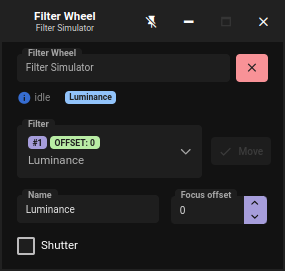
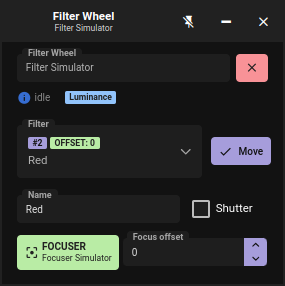
[desktop]: Save focus offset and sent it when filter change

diff --git a/desktop/src/app/filterwheel/filterwheel.component.ts b/desktop/src/app/filterwheel/filterwheel.component.ts
@@ -7,6 +7,7 @@ import { BrowserWindowService } from '../../shared/services/browser-window.servi
 import { ElectronService } from '../../shared/services/electron.service'
 import { PreferenceService } from '../../shared/services/preference.service'
 import { CameraStartCapture, EMPTY_CAMERA_START_CAPTURE } from '../../shared/types/camera.types'
+import { Focuser } from '../../shared/types/focuser.types'
 import { EMPTY_WHEEL, FilterSlot, FilterWheel, WheelDialogInput, WheelDialogMode, WheelPreference } from '../../shared/types/wheel.types'
 import { AppComponent } from '../app.component'
 
@@ -19,6 +20,12 @@ export class FilterWheelComponent implements AfterContentInit, OnDestroy {
 
     readonly wheel = structuredClone(EMPTY_WHEEL)
     readonly request = structuredClone(EMPTY_CAMERA_START_CAPTURE)
+
+    focusers: Focuser[] = []
+    focuser?: Focuser
+    focusOffset = 0
+    focusOffsetMin = 0
+    focusOffsetMax = 0
 
     moving = false
     position = 0
@@ -68,7 +75,7 @@ export class FilterWheelComponent implements AfterContentInit, OnDestroy {
                     this.update()
 
                     if (wasConnected !== event.device.connected) {
-                        electron.autoResizeWindow()
+                        electron.autoResizeWindow(1000)
                     }
                 })
             }
@@ -78,6 +85,29 @@ export class FilterWheelComponent implements AfterContentInit, OnDestroy {
             if (event.device.id === this.wheel.id) {
                 ngZone.run(() => {
                     Object.assign(this.wheel, EMPTY_WHEEL)
+                })
+            }
+        })
+
+        electron.on('FOCUSER.UPDATED', event => {
+            if (event.device.id === this.focuser?.id) {
+                ngZone.run(() => {
+                    Object.assign(this.focuser!, event.device)
+                })
+            }
+        })
+
+        electron.on('FOCUSER.DETACHED', event => {
+            if (event.device.id === this.focuser?.id) {
+                ngZone.run(() => {
+                    this.focuser = undefined
+                    this.updateFocusOffset()
+
+                    const index = this.focusers.findIndex(e => e.id === event.device.id)
+
+                    if (index >= 0) {
+                        this.focusers.splice(index, 1)
+                    }
                 })
             }
         })
@@ -103,6 +133,13 @@ export class FilterWheelComponent implements AfterContentInit, OnDestroy {
                 this.wheelChanged(decodedData)
             }
         })
+
+        this.focusers = await this.api.focusers()
+
+        if (this.focusers.length === 1) {
+            this.focuser = this.focusers[0]
+            this.focuserChanged()
+        }
     }
 
     @HostListener('window:unload')
@@ -117,6 +154,7 @@ export class FilterWheelComponent implements AfterContentInit, OnDestroy {
 
             this.loadPreference()
             this.update()
+            this.electron.autoResizeWindow()
         }
 
         if (this.app) {
@@ -132,9 +170,23 @@ export class FilterWheelComponent implements AfterContentInit, OnDestroy {
         }
     }
 
+    filterChanged() {
+        this.updateFocusOffset()
+    }
+
     async moveTo(filter: FilterSlot) {
-        await this.api.wheelMoveTo(this.wheel, filter.position)
-        this.moving = true
+        try {
+            this.moving = true
+
+            await this.api.wheelMoveTo(this.wheel, filter.position)
+
+            if (this.focuser && this.focuser?.connected && this.focusOffset !== 0) {
+                if (this.focusOffset < 0) this.api.focuserMoveIn(this.focuser, this.focusOffset)
+                else this.api.focuserMoveOut(this.focuser, this.focusOffset)
+            }
+        } catch {
+            this.moving = false
+        }
     }
 
     shutterToggled(filter: FilterSlot, event: CheckboxChangeEvent) {
@@ -148,8 +200,26 @@ export class FilterWheelComponent implements AfterContentInit, OnDestroy {
         }
     }
 
-    focusOffsetChanged(filter: FilterSlot) {
-        this.filterChangedPublisher.next(structuredClone(filter))
+    focuserChanged() {
+        this.focusOffsetMax = this.focuser?.maxPosition ?? 0
+        this.focusOffsetMin = -this.focusOffsetMax
+        this.updateFocusOffset()
+    }
+
+    focusOffsetForFilter(filter: FilterSlot) {
+        return this.focuser ? this.preference.focusOffset(this.wheel, this.focuser, filter.position).get() : 0
+    }
+
+    private updateFocusOffset() {
+        if (this.filter) {
+            this.focusOffset = this.focuser ? this.preference.focusOffset(this.wheel, this.focuser, this.filter.position).get() : 0
+        }
+    }
+
+    focusOffsetChanged() {
+        if (this.filter && this.focuser) {
+            this.preference.focusOffset(this.wheel, this.focuser, this.filter.position).set(this.focusOffset)
+        }
     }
 
     private update() {
@@ -187,6 +257,8 @@ export class FilterWheelComponent implements AfterContentInit, OnDestroy {
 
         this.filters = filters
         this.filter = filters[this.position - 1] ?? filters[0]
+
+        this.updateFocusOffset()
     }
 
     private loadPreference() {

diff --git a/desktop/src/app/filterwheel/filterwheel.component.html b/desktop/src/app/filterwheel/filterwheel.component.html
@@ -20,12 +20,12 @@
         <div class="col-9">
             <span class="p-float-label">
                 <p-dropdown [disabled]="!wheel.connected || moving" [options]="filters" [(ngModel)]="filter" styleClass="border-0"
-                            emptyMessage="No filter found" [autoDisplayFirst]="false" appendTo="body">
+                            emptyMessage="No filter found" [autoDisplayFirst]="false" (ngModelChange)="filterChanged()" appendTo="body">
                     <ng-template let-item pTemplate="selectedItem">
                         <div class="flex flex-column justify-content-center gap-1">
                             <span class="flex align-items-center text-xs gap-1" style="min-height: 15px">
                                 <p-tag *ngIf="filter" value="#{{ filter.position }}" />
-                                <p-tag *ngIf="filter" value="OFFSET: {{ filter.offset }}" severity="success" />
+                                <p-tag *ngIf="filter" value="OFFSET: {{ focusOffsetForFilter(filter) }}" severity="success" />
                                 <i *ngIf="filter?.dark" class="mdi mdi-camera-iris"></i>
                             </span>
                             <span>{{ filter?.name }}</span>
@@ -35,7 +35,7 @@
                         <div class="flex flex-column justify-content-center gap-1">
                             <span class="flex align-items-center text-xs gap-1" style="min-height: 15px">
                                 <p-tag value="#{{ item.position }}" />
-                                <p-tag value="OFFSET: {{ item.offset }}" severity="success" />
+                                <p-tag value="OFFSET: {{ focusOffsetForFilter(item) }}" severity="success" />
                                 <i *ngIf="item.dark" class="mdi mdi-camera-iris"></i>
                             </span>
                             <span>{{ item.name }}</span>
@@ -51,23 +51,27 @@
         </div>
     </div>
     <div class="grid mt-2" *ngIf="filter && canEdit">
-        <div class="col-7">
+        <div class="col-8">
             <span class="p-float-label">
                 <input pInputText [disabled]="!wheel.connected || moving" [(ngModel)]="filter.name"
                        (ngModelChange)="filterNameChanged(filter)" [maxLength]="16" class="border-0 w-full p-inputtext-sm">
                 <label>Name</label>
             </span>
         </div>
-        <div class="col-5">
-            <span class="p-float-label">
-                <p-inputNumber [disabled]="!wheel.connected || moving" [(ngModel)]="filter.offset" [min]="-1000000" [max]="1000000"
-                               [showButtons]="true" locale="en" styleClass="border-0 w-full p-inputtext-sm" />
-                <label>Focus offset</label>
-            </span>
-        </div>
-        <div class="col-12 flex flex-column justify-content-center gap-2">
+        <div class="col-4 flex flex-column justify-content-center gap-2">
             <p-checkbox [binary]="true" [disabled]="!wheel.connected || moving" [ngModel]="filter.dark"
                         (onChange)="shutterToggled(filter, $event)" label="Shutter" />
+        </div>
+        <div class="col-12 flex align-items-center justify-content-between gap-1">
+            <neb-device-list-button title="FOCUSER" icon="mdi mdi-image-filter-center-focus" [devices]="focusers" [(device)]="focuser"
+                                    (deviceChange)="focuserChanged()" />
+
+            <span class="p-float-label">
+                <p-inputNumber [disabled]="!wheel.connected || moving || !focuser" [(ngModel)]="focusOffset" [min]="focusOffsetMin"
+                               [max]="focusOffsetMax" [showButtons]="true" locale="en" styleClass="border-0 w-full p-inputtext-sm"
+                               (ngModelChange)="focusOffsetChanged()" />
+                <label>Focus offset</label>
+            </span>
         </div>
     </div>
     <div class="grid mt-2" *ngIf="canApply">

diff --git a/desktop/src/shared/services/preference.service.ts b/desktop/src/shared/services/preference.service.ts
@@ -4,6 +4,7 @@ import { AlignmentPreference, EMPTY_ALIGNMENT_PREFERENCE } from '../types/alignm
 import { EMPTY_LOCATION, Location } from '../types/atlas.types'
 import { Camera, CameraPreference, CameraStartCapture, EMPTY_CAMERA_PREFERENCE } from '../types/camera.types'
 import { Device } from '../types/device.types'
+import { Focuser } from '../types/focuser.types'
 import { ConnectionDetails, Equipment } from '../types/home.types'
 import { EMPTY_IMAGE_PREFERENCE, FOV, ImagePreference } from '../types/image.types'
 import { EMPTY_PLATE_SOLVER_OPTIONS, PlateSolverOptions, PlateSolverType } from '../types/settings.types'
@@ -66,6 +67,10 @@ export class PreferenceService {
 
     equipmentForDevice(device: Device) {
         return new PreferenceData<Equipment>(this.storage, `equipment.${device.name}`, () => <Equipment>{})
+    }
+
+    focusOffset(wheel: FilterWheel, focuser: Focuser, position: number) {
+        return new PreferenceData<number>(this.storage, `focusOffset.${wheel.name}.${position}.${focuser.name}`, () => 0)
     }
 
     readonly locations = new PreferenceData<Location[]>(this.storage, 'locations', () => [structuredClone(EMPTY_LOCATION)])

diff --git a/desktop/src/shared/types/wheel.types.ts b/desktop/src/shared/types/wheel.types.ts
@@ -37,5 +37,4 @@ export interface FilterSlot {
     position: number
     name: string
     dark: boolean
-    offset: number
 }
